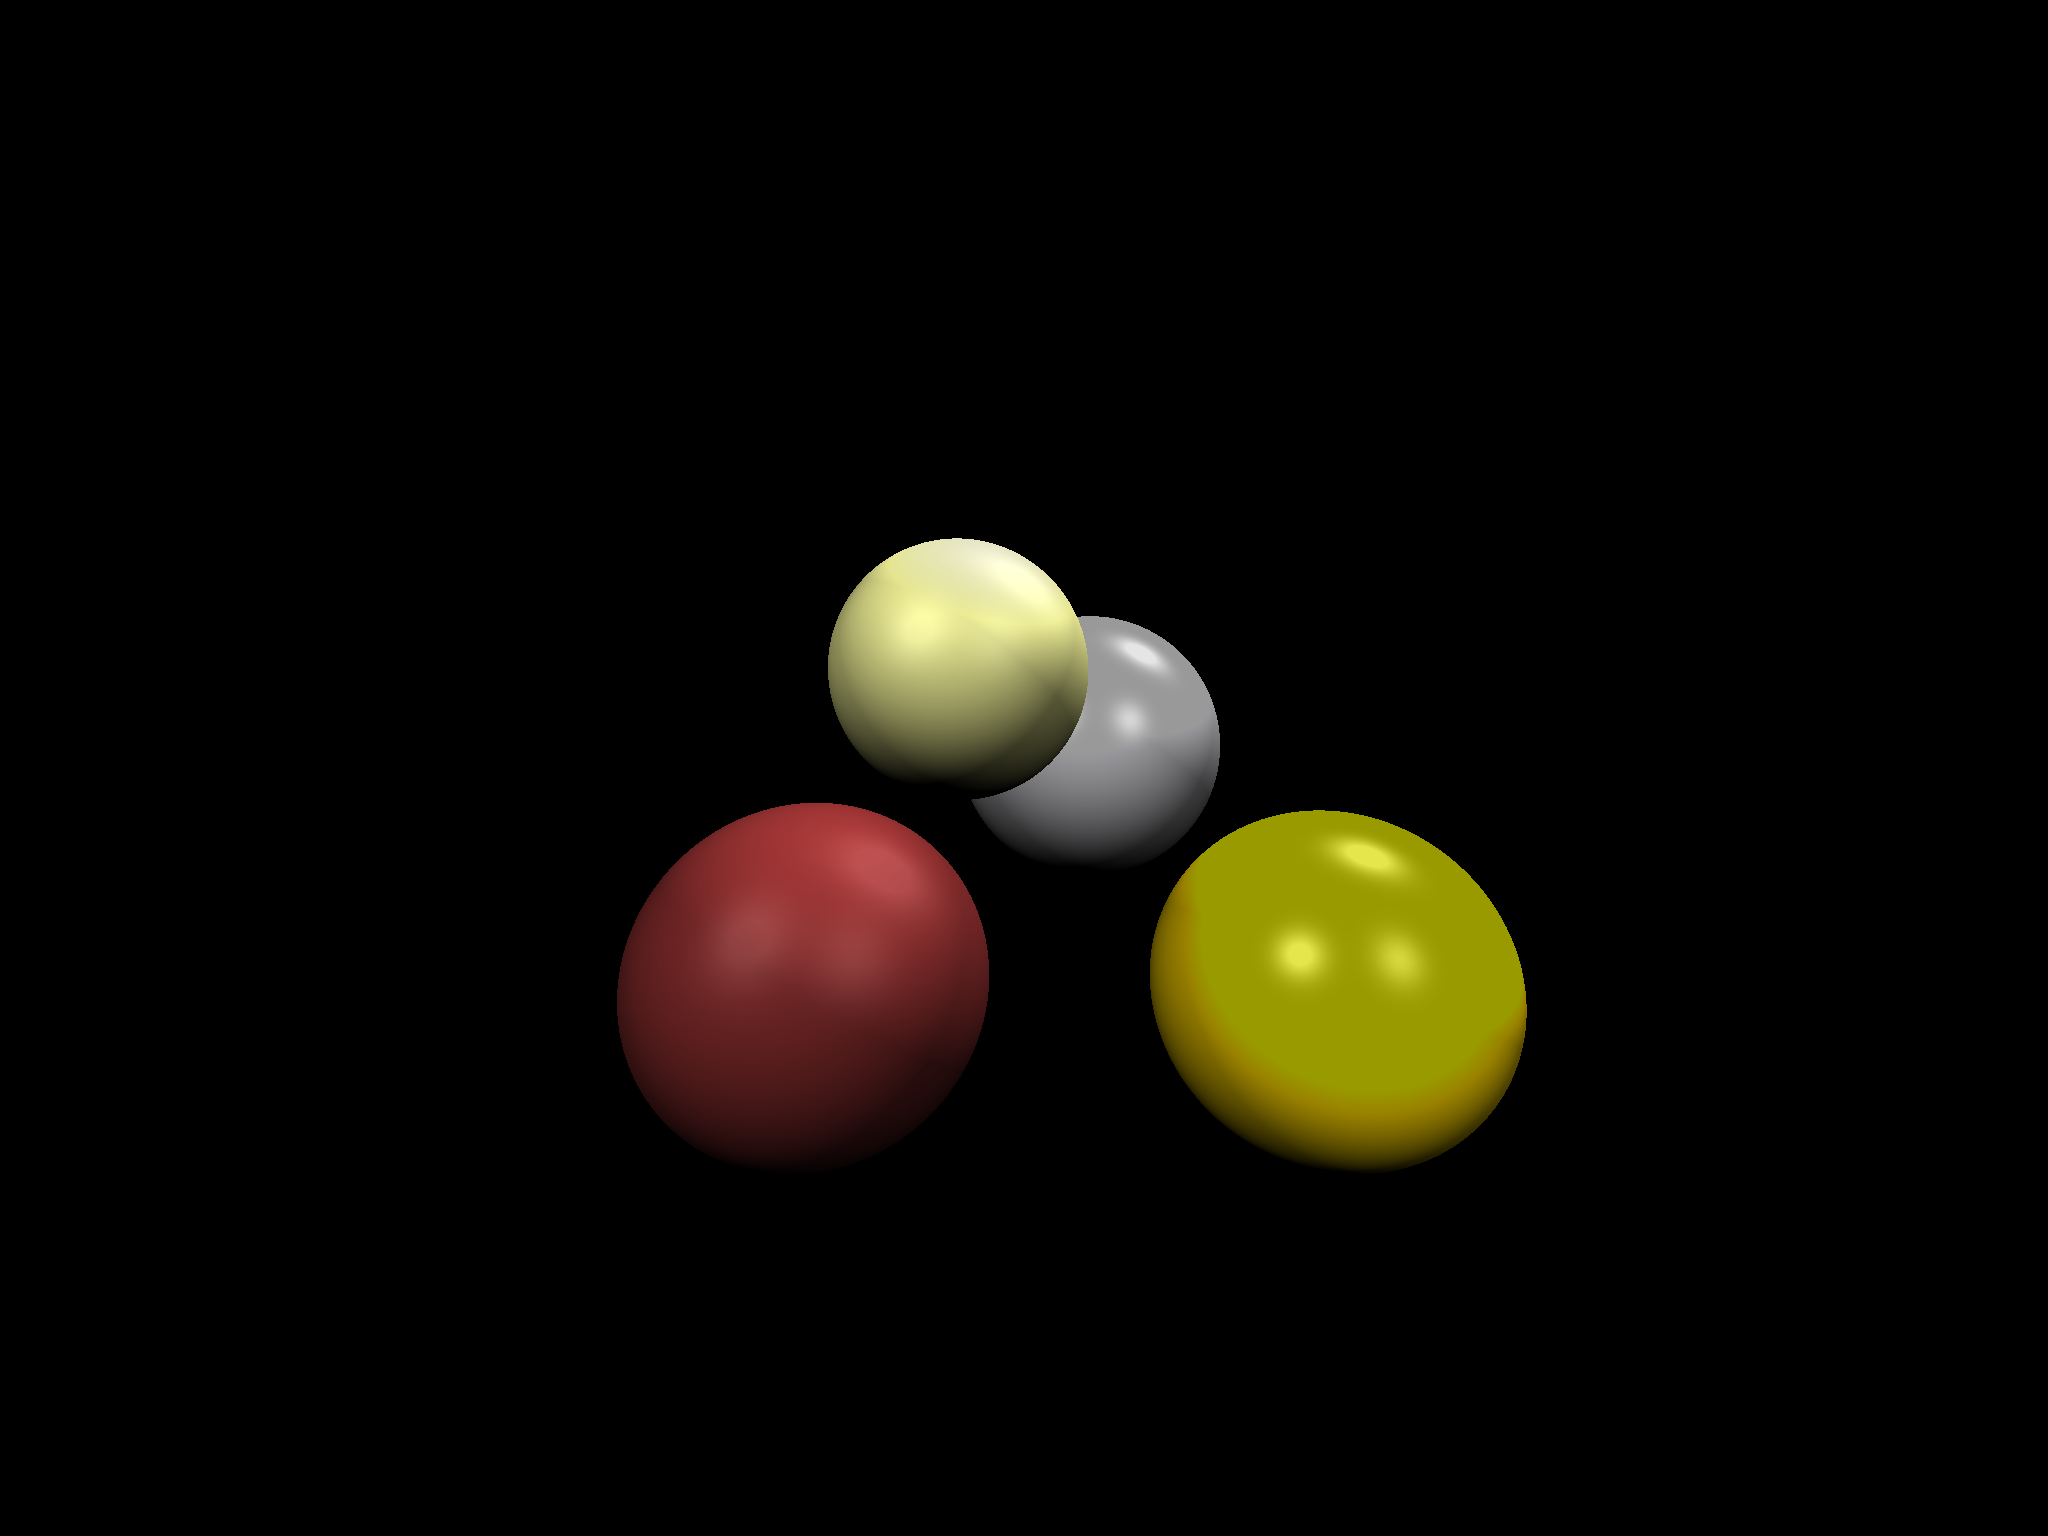
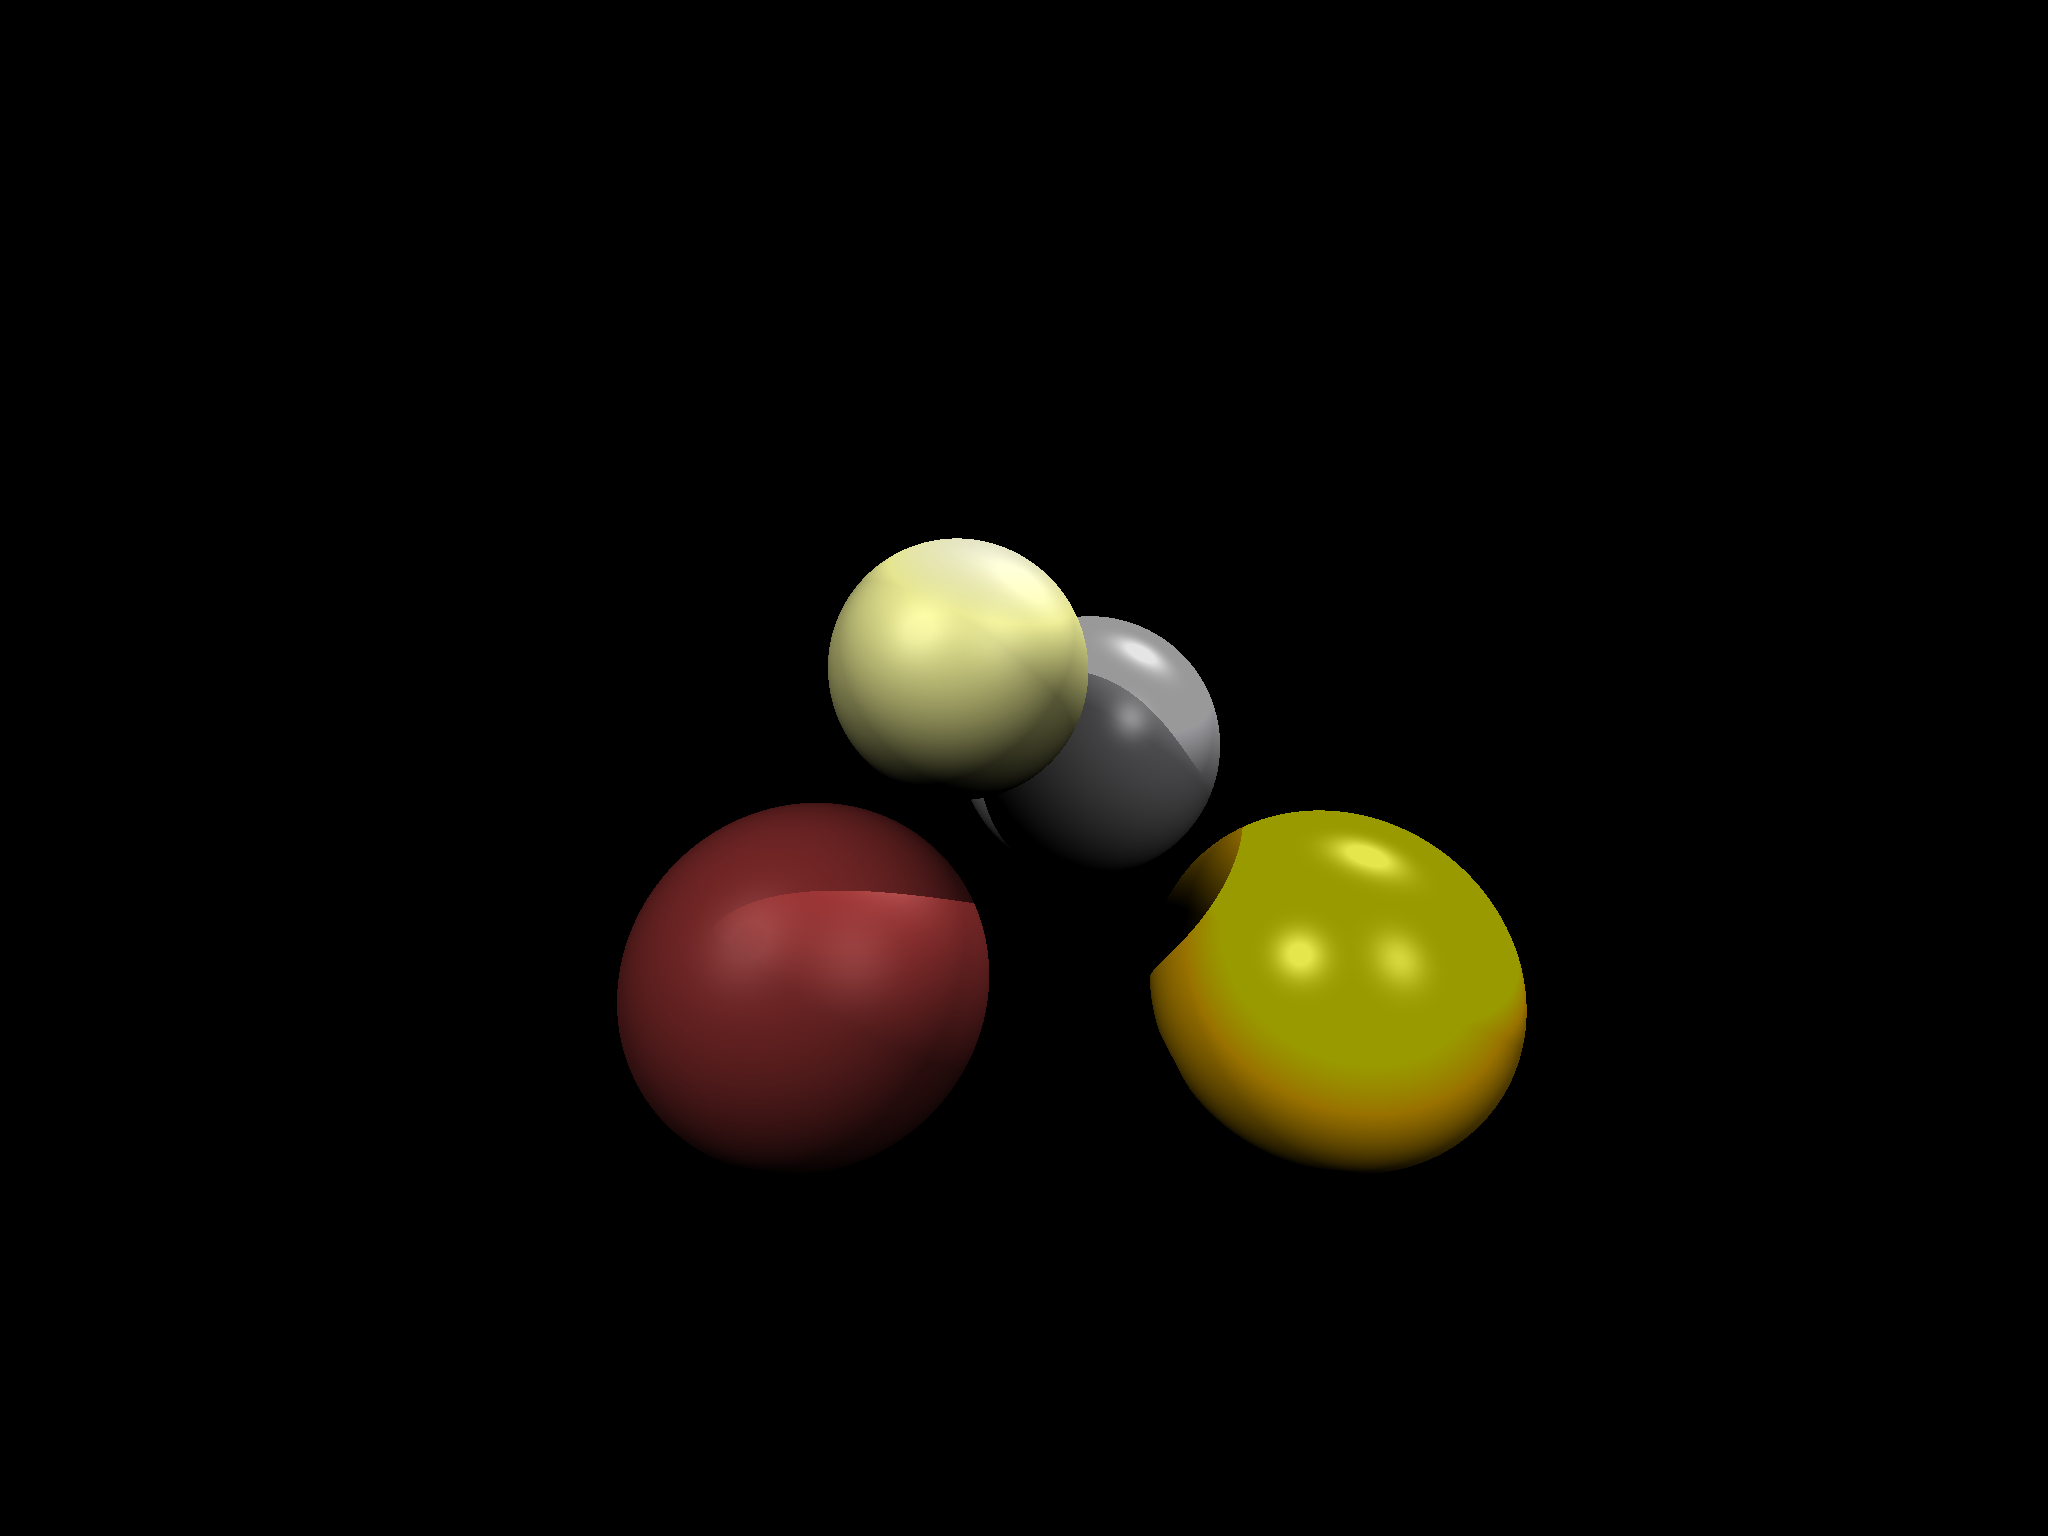
:sparkles: Add shadow

Changed region(s): [[0.3438, 0.4375, 0.5938, 0.5938], [0.5625, 0.5312, 0.625, 0.625]]

diff --git a/render.cpp b/render.cpp
@@ -17,11 +17,12 @@ color cast_ray(
     const std::vector<light>& lights
 ) {
     vec3f hit_point;
-    // find the first sphere that the ray intersects with
+    // find the first sphere that the ray intersects with and update
+    // `hit_point`
     const auto result = std::find_if(
         spheres.begin(),
         spheres.end(),
-        [&](const sphere s) -> bool {
+        [&](const sphere& s) -> bool {
             if (const auto opt = s.ray_hit_point(origin, direction)) {
                 hit_point = *opt;
                 return true;
@@ -30,7 +31,6 @@ color cast_ray(
             }
         }
     );
-
     if (result == spheres.end()) { return color::black; }
 
     const vec3f normal = (hit_point - result->center).normalized();
@@ -40,7 +40,27 @@ color cast_ray(
 
     // See https://en.wikipedia.org/wiki/Phong_reflection_model
     for (const auto& light : lights) {
-        const vec3f light_dir = (hit_point - light.position).normalized();
+        const vec3f light_to_hit_point = hit_point - light.src;
+        const vec3f light_dir = light_to_hit_point.normalized();
+
+        // check if the light is blocked by another sphere
+        const auto blocked = std::find_if(
+            spheres.begin(),
+            spheres.end(),
+            [&](const sphere& s) -> bool {
+                // skip `result`, which is the sphere we are rendering
+                if (&s == &*result) { return false; }
+                if (const auto opt = s.ray_hit_point(light.src, light_dir)) {
+                    // check if `opt` is in front of `result`
+                    return light_to_hit_point.magnitude_sq()
+                        >= (*opt - light.src).magnitude_sq();
+                } else {
+                    return false;
+                }
+            }
+        );
+        if (blocked != spheres.end()) { continue; }
+
         const float cosine = -(normal * light_dir);
         diffuse_intensity += std::max(0.f, light.intensity * cosine);
 

diff --git a/light.cpp b/light.cpp
@@ -1,4 +1,4 @@
 #include "light.h"
 
-light::light(const vec3f& position, float intensity)
-    : position(position), intensity(intensity) {}
+light::light(const vec3f& src, float intensity)
+    : src(src), intensity(intensity) {}

diff --git a/light.h b/light.h
@@ -5,8 +5,8 @@
 
 class light {
 public:
-    light(const vec3f& position, float intensity);
-    vec3f position;
+    light(const vec3f& src, float intensity);
+    vec3f src;
     float intensity;
 };
 
